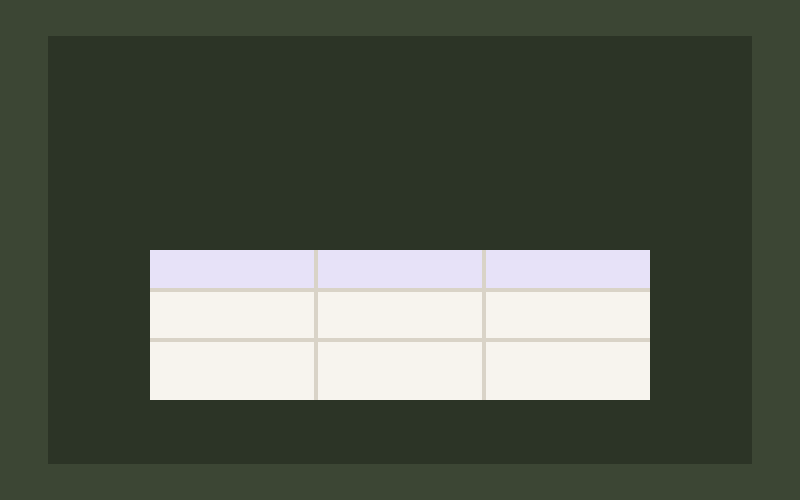
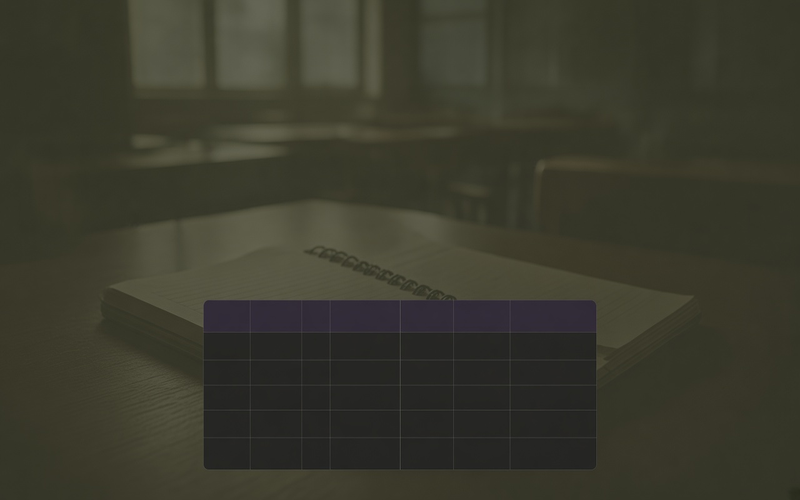
Polish Tables template UX
Replace the bright card art, drop “from scratch” copy, and add the same image upload and AI helper used by other exercises.

diff --git a/src/app/editor/components/editor/Tables/index.tsx b/src/app/editor/components/editor/Tables/index.tsx
@@ -1,6 +1,7 @@
 "use client";
 
 import { uuidv4 } from "@/app/editor/helpers";
+import { ImageUpload } from "@/components/ImageUpload";
 import { Button, Input } from "@nextui-org/react";
 import {
   FC,
@@ -13,16 +14,19 @@ import {
 } from "react";
 import { TablesExView } from "../../view/TablesExView";
 import { useExData } from "../hooks/useExData";
+import { CreateExWithAiButton } from "../CreateExWithAiButton";
 import { useUploadTablesEx } from "../hooks/useUploadTablesEx";
 import { TitleExInput } from "../TitleExInput";
 import { T } from "@/i18n/T";
 import i18n from "@/i18n/config";
 import { toast } from "react-toastify";
 import Close from "@/assets/icons/close.svg";
+import GalleryIcon from "@/assets/icons/gallery.svg";
 import Image from "next/image";
 import { domToRuns } from "./cellDom";
 import {
   TABLE_TEXT_COLORS,
+  TABLES_EX_TYPE,
   TABLES_MAX_COLS,
   TABLES_MAX_ROWS,
   TABLES_MAX_TABLES,
@@ -201,7 +205,11 @@ export const TablesEx: FC<TProps> = ({
     () => normalizeTablesData(defaultValues),
     [defaultValues],
   );
-  const { data, changeData, setData } = useExData<TTablesExerciseData>(initialData);
+  const { data, changeData, setData, resetData } =
+    useExData<TTablesExerciseData>(initialData);
+  const [images, setImages] = useState<TTablesExerciseData["images"]>(
+    initialData.images || [],
+  );
   const [openId, setOpenId] = useState<string | null>(
     initialData.tables[0]?.id ?? null,
   );
@@ -212,6 +220,10 @@ export const TablesEx: FC<TProps> = ({
     italic: false,
     underline: false,
   });
+
+  useEffect(() => {
+    changeData("images", images || []);
+  }, [changeData, images]);
 
   useEffect(() => {
     if (!success) return;
@@ -354,40 +366,102 @@ export const TablesEx: FC<TProps> = ({
   );
 
   const onSave = useCallback(() => {
-    const normalized = normalizeTablesData(data);
-    saveTablesEx({ ...normalized, id: data.id, sortIndex: data.sortIndex });
-  }, [data, saveTablesEx]);
+    const normalized = normalizeTablesData({ ...data, images });
+    saveTablesEx({
+      ...normalized,
+      id: data.id,
+      sortIndex: data.sortIndex,
+      images,
+    });
+  }, [data, images, saveTablesEx]);
+
+  const previewData = useMemo(
+    () => normalizeTablesData({ ...data, images }),
+    [data, images],
+  );
 
   return (
     <div>
-      <div className="w-full max-w-[640px]">
-        <TitleExInput
-          label={<T k="editor.taskTitle" defaultText="Заголовок задания" />}
-          value={data.title || ""}
-          setValue={(val) => changeData("title", val)}
-          onColorChange={(color: string) => changeData("titleColor", color)}
-          selectedColor={data.titleColor || "#3F28C6"}
-        />
-        <div className="h-4" />
-        <TitleExInput
-          label={<T k="editor.taskSubtitle" defaultText="Подзаголовок" />}
-          value={data.subtitle || ""}
-          setValue={(val) => changeData("subtitle", val)}
-        />
-        <div className="h-4" />
-        <TitleExInput
-          isTextarea
-          label={<T k="editor.description" defaultText="Описание" />}
-          value={data.description || ""}
-          setValue={(val) => changeData("description", val)}
-        />
+      <div className="flex flex-wrap">
+        <div className="w-full md:w-1/2 md:pr-2 min-w-0">
+          <TitleExInput
+            label={<T k="editor.taskTitle" defaultText="Заголовок задания" />}
+            value={data.title || ""}
+            setValue={(val) => changeData("title", val)}
+            onColorChange={(color: string) => changeData("titleColor", color)}
+            selectedColor={data.titleColor || "#3F28C6"}
+          />
+          <div className="h-4" />
+          <TitleExInput
+            label={<T k="editor.taskSubtitle" defaultText="Подзаголовок" />}
+            value={data.subtitle || ""}
+            setValue={(val) => changeData("subtitle", val)}
+          />
+          <div className="h-4" />
+          <TitleExInput
+            isTextarea
+            label={<T k="editor.description" defaultText="Описание" />}
+            value={data.description || ""}
+            setValue={(val) => changeData("description", val)}
+          />
+        </div>
+        <div className="w-full md:w-1/2 md:pl-2 min-w-0">
+          <p className="font-light mb-2">
+            <T k="editor.imageForTask" defaultText="Изображение для задания" />
+          </p>
+          <ImageUpload
+            images={images || []}
+            setImages={setImages}
+            customPlaceHolder={
+              <div
+                style={{
+                  width: "100%",
+                  background: "#fff",
+                  height: 200,
+                  borderRadius: 10,
+                }}
+                className="flex items-center justify-center flex-col gap-4"
+              >
+                <Image src={GalleryIcon} alt="GalleryIcon" />
+                <p
+                  className="text-small text-center max-w-[250px]"
+                  style={{ color: "#B7B7B7" }}
+                >
+                  <T
+                    k="editor.dragImagesHere"
+                    defaultText="Нажмите на этот блок или перетащите сюда изображения"
+                  />
+                </p>
+              </div>
+            }
+          />
+          <CreateExWithAiButton
+            type={TABLES_EX_TYPE}
+            currentData={data as Record<string, unknown>}
+            onApply={(generated) => {
+              const next = normalizeTablesData({
+                ...generated,
+                id: data.id,
+                sortIndex: data.sortIndex,
+              });
+              resetData(next);
+              setImages(
+                Array.isArray(generated.images) ? generated.images : images,
+              );
+              setOpenId(next.tables[0]?.id ?? null);
+            }}
+          />
+        </div>
       </div>
 
       <div className="h-6" />
 
       <div className={styles.header}>
         <div className={styles.question}>
-          <T k="editor.tablesHowTitle" defaultText="Таблицы с нуля" />
+          <T
+            k="editor.tablesHowTitle"
+            defaultText="Как собрать упражнение?"
+          />
         </div>
         <div className={styles.hint}>
           <T
@@ -664,7 +738,7 @@ export const TablesEx: FC<TProps> = ({
           }}
           className="pointer-events-none select-none"
         >
-          <TablesExView data={normalizeTablesData(data)} isPreview />
+          <TablesExView data={previewData} isPreview />
         </div>
         <div className="h-5" />
         <div className="flex justify-center">

diff --git a/src/app/editor/components/editor/hooks/useUploadTablesEx.ts b/src/app/editor/components/editor/hooks/useUploadTablesEx.ts
@@ -8,6 +8,11 @@ import {
   TTablesExerciseData,
   normalizeTablesData,
 } from "../Tables/tablesModel";
+import { useUploadImage } from "@/hooks/useUploadImage";
+import {
+  filterImagesToUpload,
+  persistExerciseAttachments,
+} from "@/app/editor/helpers";
 
 export const useUploadTablesEx = (
   lastSortIndex: number,
@@ -16,12 +21,32 @@ export const useUploadTablesEx = (
   const lessonId = useEditorLessonId();
   const [isLoading, setIsLoading] = useState(false);
   const [success, setSuccess] = useState(false);
+  const { uploadImages } = useUploadImage();
 
   const saveTablesEx = useCallback(
     async (data: TTablesExerciseData) => {
       setIsLoading(true);
       try {
         const normalized = normalizeTablesData(data);
+        const imagesToUpload =
+          // eslint-disable-next-line @typescript-eslint/no-explicit-any
+          ((data?.images as any[]) || []).filter(filterImagesToUpload) || [];
+
+        const savedAttachments = imagesToUpload?.length
+          ? await uploadImages(
+              // eslint-disable-next-line @typescript-eslint/no-explicit-any
+              imagesToUpload.map((i: any) => ({
+                ...i,
+              })),
+            )
+          : [];
+
+        const persistedImages = persistExerciseAttachments(
+          // eslint-disable-next-line @typescript-eslint/no-explicit-any
+          data?.images as any[],
+          savedAttachments,
+        ).filter((i) => !!i?.path);
+
         const createdExRes = await fetchPostJson({
           path: "/ex/create",
           isSecure: true,
@@ -34,6 +59,7 @@ export const useUploadTablesEx = (
               titleColor: normalized.titleColor,
               subtitle: normalized.subtitle,
               description: normalized.description,
+              images: persistedImages,
               tables: normalized.tables,
             }),
             sortIndex:
@@ -50,7 +76,7 @@ export const useUploadTablesEx = (
         setIsLoading(false);
       }
     },
-    [currentSortIndexToShift, lastSortIndex, lessonId],
+    [currentSortIndexToShift, lastSortIndex, lessonId, uploadImages],
   );
 
   return { isLoading, saveTablesEx, success };

diff --git a/src/app/editor/components/view/TablesExView/index.tsx b/src/app/editor/components/view/TablesExView/index.tsx
@@ -1,6 +1,10 @@
 "use client";
 
+/* eslint-disable @next/next/no-img-element */
+
 import { FC, Fragment } from "react";
+import Zoom from "react-medium-image-zoom";
+import "react-medium-image-zoom/dist/styles.css";
 import {
   TCellRun,
   TLessonTable,
@@ -80,6 +84,11 @@ export const TablesExView: FC<{
   isPreview?: boolean;
 }> = ({ data }) => {
   const tables = data?.tables || [];
+  const image = data?.images?.[0] as
+    | { dataURL?: string; path?: string }
+    | undefined;
+  const imageSrc = image?.dataURL || image?.path || "";
+
   return (
     <div className="exercise-view-shell max-w-[886px]">
       <div className="exercise-view-head py-4 sm:py-6 md:py-7 lg:py-8 w-full max-w-[766px] mx-auto">
@@ -92,9 +101,22 @@ export const TablesExView: FC<{
           <p className="exercise-view-subtitle">{data.subtitle}</p>
         )}
         {!!data?.description && (
-          <p className={`exercise-view-desc ${styles.desc}`}>{data.description}</p>
+          <p className={`exercise-view-desc ${styles.desc}`}>
+            {data.description}
+          </p>
         )}
       </div>
+      {!!imageSrc && (
+        <div className="w-full max-w-full min-w-0">
+          <Zoom>
+            <img
+              src={imageSrc}
+              alt=""
+              className="block max-w-full h-auto max-h-[min(50vh,400px)] object-contain mx-auto"
+            />
+          </Zoom>
+        </div>
+      )}
       <div className={styles.stack}>
         {tables.map((table) => (
           <TableFigure key={table.id} table={table} />

diff --git a/src/app/editor/components/editor/Tables/tablesModel.ts b/src/app/editor/components/editor/Tables/tablesModel.ts
@@ -49,6 +49,7 @@ export type TTablesExerciseData = {
   titleColor?: string;
   subtitle?: string;
   description?: string;
+  images?: Array<Record<string, string>>;
   tables: TLessonTable[];
 };
 
@@ -322,6 +323,9 @@ export function normalizeTablesData(raw: unknown): TTablesExerciseData {
     titleColor,
     subtitle: rec.subtitle != null ? String(rec.subtitle) : "",
     description: rec.description != null ? String(rec.description) : "",
+    images: Array.isArray(rec.images)
+      ? (rec.images as Array<Record<string, string>>)
+      : [],
     tables: tables.length ? tables : [createTable("table-1")],
   };
 }

diff --git a/src/app/editor/components/create/ChooseTemplateModal/templates.ts b/src/app/editor/components/create/ChooseTemplateModal/templates.ts
@@ -160,7 +160,7 @@ export const templates: TTemplate[] = [
     titleDefault: "Таблицы",
     descriptionKey: "templates.tablesDesc",
     descriptionDefault:
-      "С нуля: до 10 таблиц, свои строки и колонки, курсив и цвет",
+      "До 10 таблиц, свои строки и колонки, курсив и цвет",
     bgImage: TableBg,
   },
   {

diff --git a/src/app/editor/hooks/useExList.ts b/src/app/editor/hooks/useExList.ts
@@ -189,7 +189,7 @@ const getDataMapper = (type: string) => {
     case "TRUE_FALSE":
       return mapFillGapsNewExData;
     case "TABLES":
-      return mapNoteExData;
+      return mapFillGapsNewExData;
     case "free-input-form":
     case "test":
       return mapImageExData;

diff --git a/src/app/editor/components/editor/CreateExWithAiButton/index.tsx b/src/app/editor/components/editor/CreateExWithAiButton/index.tsx
@@ -47,6 +47,7 @@ export const AI_SUPPORTED_EX_TYPES = [
   "match-word-word",
   "match-word-column",
   "free-input-form",
+  "TABLES",
 ] as const;
 
 type TChatMessage = {
